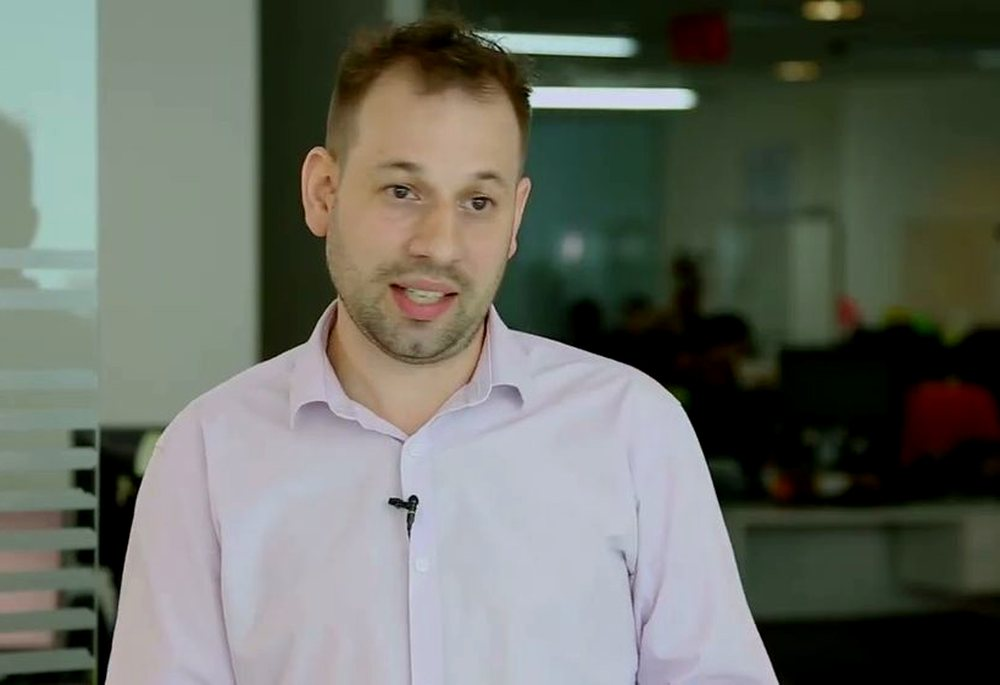
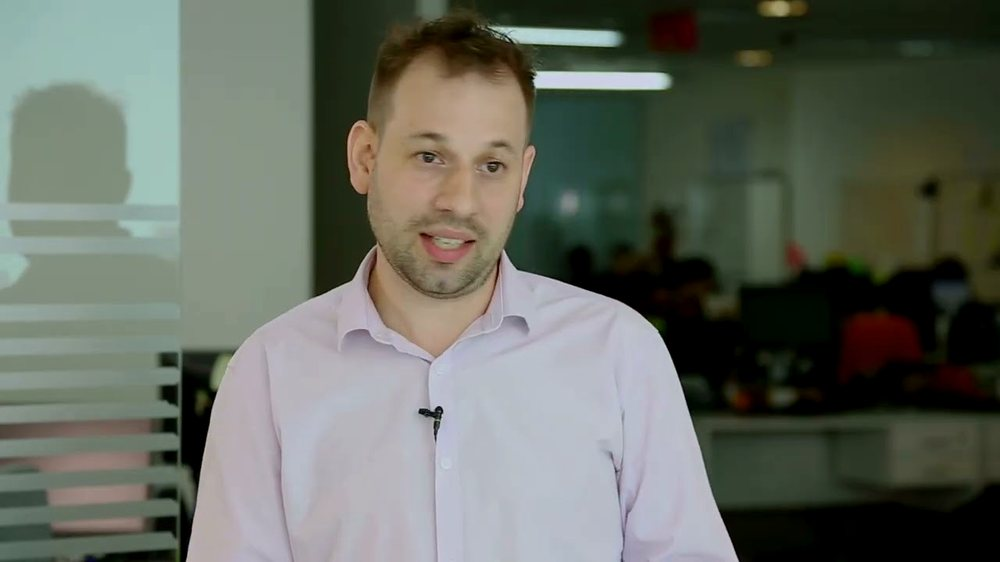
Add files via upload

diff --git a/Pauta-Datawise/index.html b/Pauta-Datawise/index.html
@@ -343,12 +343,13 @@ table.tbl{width:100%;border-collapse:collapse;min-width:680px}
 .funnel em{display:block;font-style:normal;font-size:.88rem;color:var(--w-65);margin-top:4px;line-height:1.45}
 
 /* ecosistema de marcas + videos de casos */
-.ecosystem{display:flex;align-items:center;justify-content:center;gap:clamp(26px,5vw,60px);
+.ecosystem{display:flex;flex-wrap:wrap;align-items:center;justify-content:center;gap:clamp(18px,3vw,34px);
   background:linear-gradient(150deg,rgba(116,250,227,.10),rgba(13,4,40,.42));
-  border:1px solid var(--aqua-line);border-radius:22px;padding:clamp(40px,6vw,72px) 28px;min-height:200px}
-.eco-logo{width:auto;display:block;object-fit:contain}
-.eco-pop{height:clamp(26px,3.2vw,40px)}
-.eco-dw{height:clamp(24px,2.9vw,36px)}
+  border:1px solid var(--aqua-line);border-radius:22px;padding:clamp(34px,5vw,56px) clamp(20px,3vw,34px);
+  min-height:190px;overflow:hidden}
+.eco-logo{height:auto;display:block;object-fit:contain}
+.eco-pop{width:min(38%,196px)}
+.eco-dw{width:min(38%,182px)}
 .eco-x{font-family:'Public Sans';font-weight:300;font-size:clamp(1.5rem,3vw,2.2rem);color:var(--aqua);line-height:1}
 .vid{cursor:pointer;background:var(--card);border:1px solid var(--line-soft);border-radius:18px;
   overflow:hidden;transition:transform .4s var(--ease),border-color .4s var(--ease)}
@@ -810,32 +811,32 @@ table.tbl{width:100%;border-collapse:collapse;min-width:680px}
         <div class="ico"><svg viewBox="0 0 24 24" fill="none" stroke="currentColor" stroke-width="1.6"><circle cx="11" cy="11" r="7"/><path d="M20 20l-3.5-3.5"/></svg></div>
         <span class="num-tag">FRENTE 01</span>
         <h3>Google Ads: auditoría y reestructuración completa</h3>
-        <p>Estructura de campañas, keywords y términos de búsqueda, negativas y concordancias, pujas, distribución del presupuesto, anuncios y conversiones — <b>mercado por mercado y vertical por vertical</b>.</p>
-        <p class="mt14">No replicamos Argentina en el resto de LATAM: los resultados ya demostraron que cada mercado necesita su propia hipótesis. Y auditamos la composición real de las creatividades activas antes de tocar un presupuesto, para saber cuánto es captura de demanda y cuánto es alcance.</p>
+        <p><b>No replicamos Argentina en el resto de LATAM.</b> Cada mercado necesita su propia hipótesis de demanda, y Perú —el más eficiente de los cuatro— ya demuestra que funciona distinto.</p>
+        <p class="mt14">Antes de mover un presupuesto auditamos qué está corriendo realmente: cuánto es captura de demanda y cuánto es alcance. Sin ese dato, subir o bajar inversión es adivinar.</p>
       </div>
 
       <div class="card hi r d4">
         <div class="ico"><svg viewBox="0 0 24 24" fill="none" stroke="currentColor" stroke-width="1.6"><path d="M3 12h4l3 8 4-16 3 8h4"/></svg></div>
         <span class="num-tag">FRENTE 02 · EL PILAR</span>
         <h3>Medición y CRM: que la plataforma aprenda qué lead es bueno</h3>
-        <p>El objetivo es la trazabilidad completa —<b>lead → lead calificado → oportunidad → venta</b>— y devolver esa señal a Google Ads, conectando <b>Clientify (Argentina)</b> y <b>Odoo (LATAM)</b>.</p><p class="mt14"><b>Qué hacemos nosotros:</b> definimos el esquema (qué estados del CRM equivalen a qué evento), configuramos la importación de conversiones offline en Google Ads y validamos la trazabilidad punta a punta. <b>Qué queda de su lado:</b> el desarrollo dentro de Odoo y Clientify, que es trabajo de API. Lo hace el equipo técnico de Datawise — les entregamos la especificación exacta de qué evento enviar, con qué dato y en qué formato, para que sea ejecutar y no diseñar.</p>
-        <p class="mt14">Separamos la medición por país, instalamos GA4 donde falta y dejamos de contar el formulario de postulación laboral como conversión comercial. El objetivo no es medir mejor por prolijidad: es <b>que Google deje de optimizar hacia el formulario y empiece a optimizar hacia el negocio</b>.</p>
+        <p>Hoy Google solo sabe que alguien completó un formulario. El trabajo es que sepa <b>cuáles terminan en negocio</b>, conectando Clientify y Odoo para devolverle la señal.</p>
+        <p class="mt14"><b>Nosotros</b> definimos el esquema y configuramos la importación de conversiones offline; <b>el desarrollo del lado del CRM lo ejecuta el equipo de Datawise</b> con nuestra especificación. Sin este frente, todo lo demás optimiza hacia el objetivo equivocado.</p>
       </div>
 
       <div class="card hi r d5">
         <div class="ico"><svg viewBox="0 0 24 24" fill="none" stroke="currentColor" stroke-width="1.6"><rect x="3" y="4" width="18" height="16" rx="2"/><path d="M3 9h18M7 14h7"/></svg></div>
         <span class="num-tag">FRENTE 03 · NO PUEDE ESPERAR</span>
         <h3>Conversión: arreglar lo que pasa después del clic</h3>
-        <p>Formulario en el primer pantallazo y con <b>campos que califican</b> (empresa, cargo, tamaño, solución). Prueba social en la landing, no solo en la home. Mensaje por intención y por mercado. Señales locales en el sitio regional. Tests A/B.</p>
-        <p class="mt14">No proponemos rehacer todas las landings: proponemos <b>corregir las existentes y crear variantes donde hay una oportunidad concreta</b>. Ustedes deciden si lo ejecuta su equipo con nuestros lineamientos o si lo cotizamos.</p><p class="mt14"><b>Este frente no espera a los otros.</b> Si el problema está después del clic, cada mes que la pauta corre sobre una página que no convierte es presupuesto gastado en confirmar lo que ya sabemos. Por eso la especificación del formulario y las correcciones prioritarias son entregables de los <b>primeros 45 días</b>, no de una fase posterior.</p>
+        <p>Un formulario que califique en el primer pantallazo, prueba social en la landing y mensaje por mercado. <b>No proponemos rehacer todas las landings:</b> corregir las existentes y crear variantes donde haya una oportunidad concreta.</p>
+        <p class="mt14"><b>Este frente no espera a los otros.</b> Cada mes que la pauta corre sobre una página que no convierte es presupuesto gastado en confirmar lo que ya sabemos. Por eso entra en los <b>primeros 45 días</b>.</p>
       </div>
 
       <div class="card r d6">
         <div class="ico"><svg viewBox="0 0 24 24" fill="none" stroke="currentColor" stroke-width="1.6"><path d="M4 20V10M10 20V4M16 20v-7M22 20V7"/></svg></div>
         <span class="num-tag">FRENTE 04</span>
         <h3>Meta: completar el embudo, como piloto de 90 días</h3>
-        <p>Google captura la demanda que ya existe. Meta <b>genera demanda, educa y construye audiencias</b> — incluyendo las que hoy no se pueden armar porque no hay píxel instalado.</p>
-        <p class="mt14">Trabajamos sobre IA y Ciberseguridad con casos de éxito, dolores concretos, contenido técnico y remarketing por interacción, midiendo contra oportunidad comercial y no contra alcance. Arranca como piloto acotado: si a los 90 días no muestra señales, se apaga y se explica por qué.</p>
+        <p>Google captura la demanda que ya existe. <b>Meta la genera</b>, educa y construye las audiencias que hoy ni siquiera se pueden armar.</p>
+        <p class="mt14">IA y Ciberseguridad con casos de éxito, dolores concretos y remarketing, midiendo contra oportunidad comercial y no contra alcance. <b>Arranca acotado:</b> si a los 90 días no muestra señales, se apaga y se explica por qué.</p>
       </div>
     </div>
   </div>
@@ -874,19 +875,19 @@ table.tbl{width:100%;border-collapse:collapse;min-width:680px}
       <div class="phase-card hi r d3">
         <span class="pn">01</span><span class="gp">Mes 1</span>
         <h3>Optimizar y medir</h3>
-        <p>Reestructuración de las cuatro cuentas, medición separada por país y conexión de los CRM. Se corrige lo que rompe la conversión antes de mover un peso de inversión.</p>
+        <p>Se corrige lo que rompe la conversión <b>antes</b> de mover un peso de inversión.</p>
         
       </div>
       <div class="phase-card r d4">
         <span class="pn">02</span><span class="gp">Mes 2</span>
         <h3>Validar la calidad</h3>
-        <p>Con la señal ya funcionando, aparece el primer dato real de calidad comercial. Recién ahí se escala, y solo donde hay evidencia: <b>20% a 25%</b> en las campañas y mercados que la muestren.</p>
+        <p>Con la señal funcionando aparece el primer dato real de calidad comercial. Recién ahí se escala, y solo donde hay evidencia: <b>20% a 25%</b>.</p>
         
       </div>
       <div class="phase-card r d5">
         <span class="pn">03</span><span class="gp">Mes 3</span>
         <h3>Escalar con evidencia</h3>
-        <p>Segundo aumento <b>solo si el costo por lead y el costo por oportunidad acompañan</b>. Si no acompañan, no se sube: se corrige. Y se dice.</p>
+        <p>Segundo aumento <b>solo si el costo por oportunidad acompaña</b>. Si no acompaña, no se sube: se corrige. Y se dice.</p>
         
       </div>
     </div>
@@ -1171,9 +1172,9 @@ table.tbl{width:100%;border-collapse:collapse;min-width:680px}
       </div>
       <div class="card hi r d7" style="grid-column:1/-1">
         <span class="num-tag">05 · TAREA DE DATAWISE, SIN COSTO</span>
-        <h3>Dos cosas que conviene resolver puertas adentro antes de que empecemos</h3>
+        <h3>Tres cosas que se resuelven puertas adentro</h3>
         <p><b>Verificar qué dispara cada conversión.</b> Si el formulario de postulación laboral está registrando el mismo evento que el comercial, el histórico de “formularios enviados” está contaminado y todo el análisis se apoya sobre ruido.</p>
-        <p class="mt14"><b>El desarrollo de la integración, del lado del CRM.</b> Podríamos cotizarlo, pero sería cobrarles por algo que su propio equipo hace mejor y más rápido: conocen Odoo y nosotros no. Les damos la especificación cerrada y lo ejecutan ustedes.</p>
+        <p class="mt14"><b>El desarrollo de la integración del lado del CRM.</b> Podríamos cotizarlo, pero sería cobrarles por algo que su equipo hace mejor y más rápido: conocen Odoo y nosotros no.</p>
         <p class="mt14"><b>Conseguir la autorización para publicar casos y testimoniales con nombre, y para usar los logos en las landings de campaña.</b> Es lo más barato y potente que se puede hacer por la conversión, lleva semanas de gestión interna y no depende de nosotros. Cuanto antes arranque, antes rinde.</p>
       </div>
     </div>
